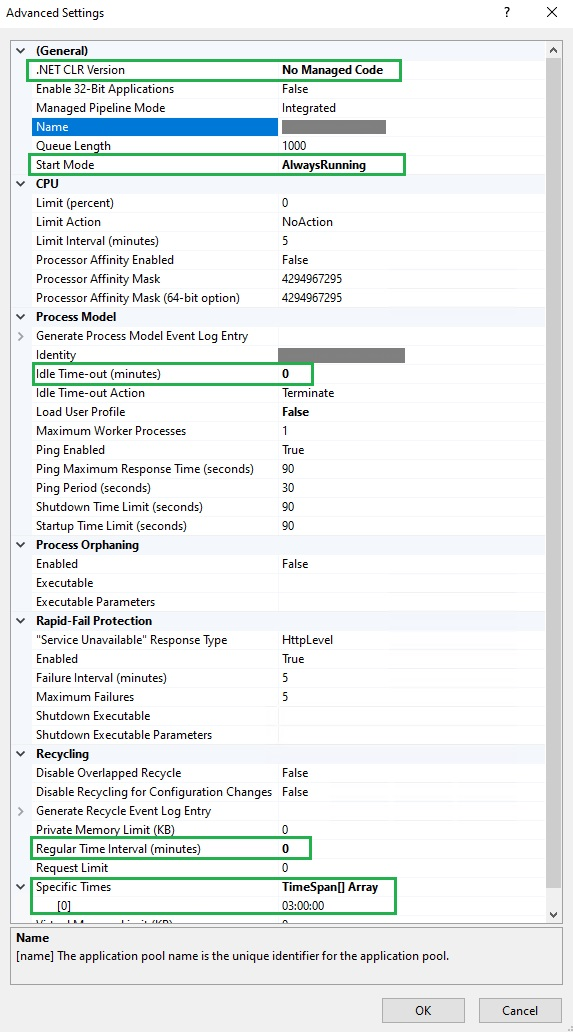
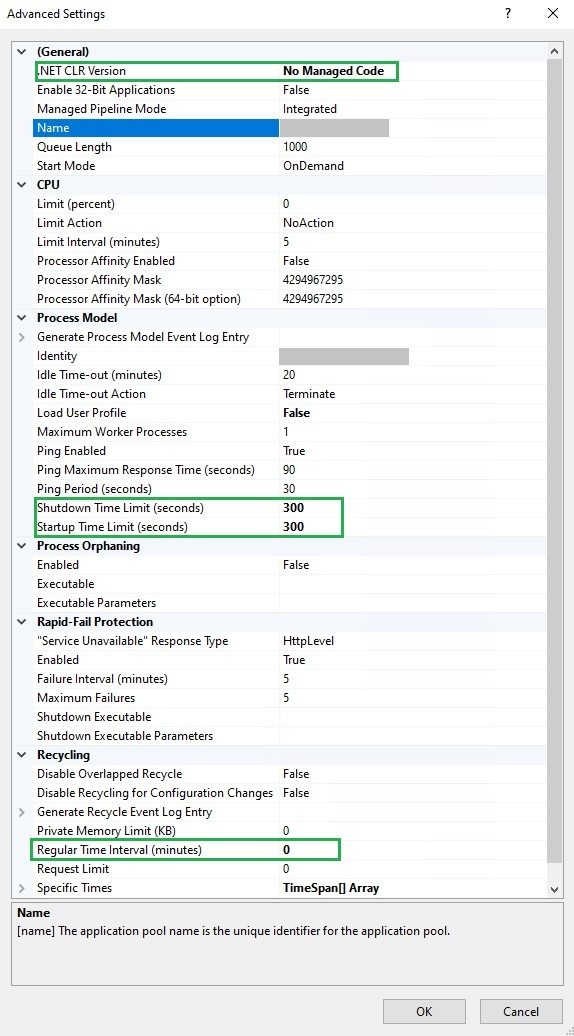
Add instructions for keeping the backend warm.

diff --git a/Installation/keeping-the-api-application-always-running.md b/Installation/keeping-the-api-application-always-running.md
@@ -1,0 +1,147 @@
+# Keeping the API application always running
+
+By default, IIS starts the SPS Plus back-end application only when the first request arrives and
+stops it after 20 minutes without visitors. This preserves energy and memory on the server, but the
+first user after a server restart, an application pool recycle, or a period of inactivity has to
+wait for the full application startup, which may take a long time. The optional instructions on
+this page make the application start automatically and stay running, so users never experience the
+slow first request.
+
+> These settings increase the use of energy and memory on the server, because the application stays
+loaded even when no one is using it. If you prefer to preserve server resources, skip this page and
+keep the default behavior.
+
+> Before you begin, make sure the recommended application pool parameters from
+[Setting up IIS websites for the first time](./setting-up-iis-websites-for-the-first-time.md) are
+already applied, in particular disabling the Regular Time Interval recycling.
+
+## Enable automatic startup and warmup
+
+First, install the *Application Initialization* feature of IIS, if it is not installed already. Open
+Server Manager, choose Add Roles and Features, and under Web Server (IIS) > Web Server >
+Application Development, check *Application Initialization*. Alternatively, run the following
+command in an elevated PowerShell:
+
+```powershell
+Install-WindowsFeature Web-AppInit
+```
+
+Then, in IIS Manager, find the Application Pool with the same name as the API website - usually
+SPS Plus - API. It is located in the tree on the left under Application Pools. Right-click on it
+and choose Advanced Settings. In the modal popup, set:
+
+- **Start Mode**: *AlwaysRunning* — IIS starts the application immediately after a recycle or a
+server restart, instead of waiting for the first request.
+- **Idle Time-out (minutes)**: *0* — prevents the application from shutting down due to inactivity.
+
+![file](./pictures/installation-app-pool-parameters-keep-alive.jpg "App Pool parameters for keeping the application running")
+
+Finally, enable warmup on the API website itself. In the tree on the left, select the *SPS Plus - API*
+website, click Advanced Settings in the Actions pane on the right, and set **Preload Enabled** to
+*True*. With this setting, whenever the application pool starts, IIS immediately sends a warmup
+request to the application, so the slow initialization happens in the background instead of on the
+first user request.
+
+To verify the setup, restart the application pool without opening the website, wait about a minute,
+then open the website — it should load within a few seconds. You can also check in Task Manager that
+a *w3wp.exe* process for the API application pool is running even though no one has accessed the site.
+
+> A lighter middle ground: instead of setting the Idle Time-out to 0, set **Idle Time-out Action**
+to *Suspend*. The application is swapped out of memory after 20 idle minutes, but resumes in a few
+seconds instead of performing a full startup. Use this if memory on the server is limited.
+
+## Alternative: warmup script with a scheduled task
+
+The settings above make Windows start all *AlwaysRunning* applications at the same time when the
+server boots. If the server hosts several SPS Plus instances (or other heavy applications), the
+simultaneous startups compete for CPU and database connections, each one takes much longer than
+usual, and they can exceed the startup time limit and end up restarting in a loop. In that case,
+use a warmup script instead: it starts the applications strictly one at a time, waiting for each
+one to finish initializing before starting the next.
+
+For this approach, leave **Start Mode** at *OnDemand* and only set **Idle Time-out (minutes)** to
+*0* on each API application pool - once started, the application never stops, and the script below
+is what starts it.
+
+Save the following script, for example as *C:\Scripts\Warm-SpsApi.ps1*. It is written for a single
+API website called *SPS Plus - API*; if the server hosts more instances, add their website names to
+the `$warmSites` list and they will be warmed up one at a time, in order.
+
+```powershell
+# Warm-SpsApi.ps1 - starts the SPS Plus API applications one at a time, if not already running.
+$warmSites = @(
+    'SPS Plus - API'
+)
+$log = 'C:\Scripts\sps-warmup.log'
+Import-Module WebAdministration
+[System.Net.ServicePointManager]::ServerCertificateValidationCallback = { $true }
+
+function Write-Log($msg) {
+    Add-Content -Path $log -Value ("{0}  {1}" -f (Get-Date -Format 'yyyy-MM-dd HH:mm:ss'), $msg)
+}
+
+foreach ($siteName in $warmSites) {
+    $site = Get-Website -Name $siteName
+    if (-not $site) { Write-Log "SKIP $siteName - site not found"; continue }
+    if ($site.State -ne 'Started') { Write-Log "SKIP $siteName - site is $($site.State)"; continue }
+
+    # Build the local URL of the website from its first binding.
+    $b = $site.Bindings.Collection | Select-Object -First 1
+    $parts = $b.bindingInformation -split ':'
+    $ip = $parts[0]; $port = $parts[1]; $hostHeader = $parts[2]
+    $target = if ($ip -and $ip -ne '*') { $ip } else { 'localhost' }
+    $url = '{0}://{1}:{2}/' -f $b.protocol, $target, $port
+
+    try {
+        $req = [System.Net.WebRequest]::CreateHttp($url)
+        if ($hostHeader) { $req.Host = $hostHeader }
+        $req.Timeout = 300000
+        $req.ReadWriteTimeout = 300000
+        $sw = [System.Diagnostics.Stopwatch]::StartNew()
+        $resp = $req.GetResponse()
+        $resp.Close()
+        Write-Log ("OK   {0} in {1:n1}s" -f $siteName, $sw.Elapsed.TotalSeconds)
+    } catch [System.Net.WebException] {
+        if ($_.Exception.Response) {
+            # An HTTP error response still means the application has started.
+            Write-Log ("OK   {0} responded HTTP {1} (app is up)" -f $siteName, [int]$_.Exception.Response.StatusCode)
+        } else {
+            Write-Log ("FAIL {0} - {1}" -f $siteName, $_.Exception.Message)
+        }
+    } catch {
+        Write-Log ("FAIL {0} - {1}" -f $siteName, $_.Exception.Message)
+    }
+}
+```
+
+Then register a scheduled task that runs the script when the server starts (with a short delay, so
+IIS and SQL Server have settled) and once an hour as a safety net, in case someone recycles the
+application pool manually. Run the following in an elevated PowerShell:
+
+```powershell
+$action = New-ScheduledTaskAction -Execute 'powershell.exe' `
+    -Argument '-NoProfile -ExecutionPolicy Bypass -File "C:\Scripts\Warm-SpsApi.ps1"'
+$boot = New-ScheduledTaskTrigger -AtStartup
+$boot.Delay = 'PT2M'
+$hourly = New-ScheduledTaskTrigger -Once -At (Get-Date).AddMinutes(5) -RepetitionInterval (New-TimeSpan -Hours 1)
+$principal = New-ScheduledTaskPrincipal -UserId 'SYSTEM' -LogonType ServiceAccount -RunLevel Highest
+$settings = New-ScheduledTaskSettingsSet -ExecutionTimeLimit (New-TimeSpan -Hours 1) -StartWhenAvailable
+Register-ScheduledTask -TaskName 'SPS API Warmup' -Action $action -Trigger $boot, $hourly -Principal $principal -Settings $settings
+```
+
+> If Register-ScheduledTask reports an error about the repetition settings on your version of
+Windows Server, add `-RepetitionDuration ([TimeSpan]::MaxValue)` to the `$hourly` line.
+
+To verify, run the script once by hand and check the log file:
+
+```powershell
+powershell -NoProfile -ExecutionPolicy Bypass -File C:\Scripts\Warm-SpsApi.ps1
+Get-Content C:\Scripts\sps-warmup.log
+```
+
+Each website should log an `OK` line with its startup time. After a server restart, the log shows
+the applications being warmed up in order, and the first visitor no longer waits for the startup.
+
+___
+
+[Home](../README.md) / Back: [Setting up IIS websites for the first time](./setting-up-iis-websites-for-the-first-time.md)

diff --git a/Installation/setting-up-iis-websites-for-the-first-time.md b/Installation/setting-up-iis-websites-for-the-first-time.md
@@ -45,51 +45,32 @@ need a different Host name for the API server.
 
 #### Set application pool parameters (recommended)
 
-The back-end application may take a long time to initialize at first visit. With the default IIS
-settings, the application is only started when the first request arrives, so the first user after a
-restart, recycle, or period of inactivity has to wait for the full startup. The settings below make
-IIS keep the application running and warm it up automatically in the background, so users never
-experience the slow first request.
+In IIS Manager, find the Application Pool with the same name as the API website - usually
+SPS Plus - API. It is located in the tree on the left under Application Pools. Right-click on it
+and choose Advanced Settings. In the modal popup, change the following settings from their
+default values:
 
-> The following may increase the use of energy and memory on the server, but it is recommended 
-for a better user experience.
-
-First, install the *Application Initialization* feature of IIS, if it is not installed already. Open
-Server Manager, choose Add Roles and Features, and under Web Server (IIS) > Web Server >
-Application Development, check *Application Initialization*. Alternatively, run the following
-command in an elevated PowerShell:
-
-```powershell
-Install-WindowsFeature Web-AppInit
-```
-
-Then, in IIS Manager, find the Application Pool with the same name as the API website - usually 
-SPS Plus - API. It is located in the tree on the left under Application Pools. Right-click on it 
-and choose Advanced Settings. In the modal popup, set:
-
-- **Start Mode**: *AlwaysRunning* — IIS starts the application immediately after a recycle or a
-server restart, instead of waiting for the first request.
-- **Idle Time-out (minutes)**: *0* — prevents the application from shutting down due to inactivity.
-- **Regular Time Interval (minutes)** (under Recycling): *0* — disables the default recycle that
-occurs every 29 hours at unpredictable times. Optionally, set **Specific Times** to a quiet hour
-(for example *03:00:00*) to recycle the application once a day instead.
 - **.NET CLR Version**: *No Managed Code* — optional, but recommended as the app does not rely on
 loading the desktop CLR (.NET CLR).
+- **Start-up Time Limit (seconds)** (under Process Model): *300* — the back-end application may
+need more than the default 90 seconds to initialize, especially on a busy server.
+- **Shutdown Time Limit (seconds)** (under Process Model): *300* — gives the application more time
+to finish its work in progress when it is stopped or recycled.
+- **Regular Time Interval (minutes)** (under Recycling): *0* — disables the default recycle that
+occurs every 29 hours at unpredictable times.
 
-Finally, enable warmup on the API website itself. In the tree on the left, select the *SPS Plus - API*
-website, click Advanced Settings in the Actions pane on the right, and set **Preload Enabled** to
-*True*. With this setting, whenever the application pool starts, IIS immediately sends a warmup
-request to the application, so the slow initialization happens in the background instead of on the
-first user request.
-
-To verify the setup, restart the application pool without opening the website, wait about a minute,
-then open the website — it should load within a few seconds. You can also check in Task Manager that
-a *w3wp.exe* process for the API application pool is running even though no one has accessed the site.
-
-Also, change the .NET CLR Version value to *No Managed Code*. This is optional, but is also recommended 
-as the app does not rely on loading the desktop CLR (.NET CLR).
+> Avoid scheduling recycles under **Specific Times** (Recycling section). A recycle terminates any
+long-running background process (data imports, scenario calculations) that happens to be running at
+that moment. The application does not need periodic recycling to stay healthy.
 
 ![file](./pictures/installation-app-pool-parameters.jpg "App Pool parameters")
+
+With the default IIS behavior, the application is started when the first request arrives and is
+stopped again after 20 minutes without visitors. This preserves energy and memory on the server,
+but the first user after a server restart or a period of inactivity has to wait for the full
+application startup, which may take a long time. If you prefer the application to always respond
+immediately, follow the optional instructions in
+[Keeping the API application always running](./keeping-the-api-application-always-running.md).
 
 ### Create a website for the front-end application
 

diff --git a/README.md b/README.md
@@ -9,6 +9,7 @@ Navigate the table of contents below for easier access to the documentation.
 
 - [Preparing the web server](./Installation/preparing-the-web-server.md)
 - [Setting up IIS websites for the first time](./Installation/setting-up-iis-websites-for-the-first-time.md)
+- [Keeping the API application always running (optional)](./Installation/keeping-the-api-application-always-running.md)
 - [Setting up the network share](./Installation/setting-up-network-share.md)
 - [Updating the SPS Plus application](./Installation/updating-the-sps-plus-application.md)
 - [Upgrading from SPS Plus v3 to v4](./Installation/upgrade-v3-to-v4.md)
